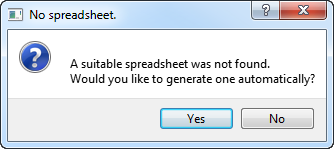
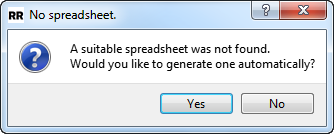
`noself` usage has been removed. `self` is now passed to all modules that raise notifications, so noself isn't needed. I've still kept it as an option since it might be useful in the future.

diff --git a/MouseFunctions.py b/MouseFunctions.py
@@ -26,7 +26,7 @@ def find(stdevs, minstvar):
             continue
         yield i, j
 
-def xOutput(toPrintList, workBook, sheetName):
+def xOutput(self, toPrintList, workBook, sheetName):
     '''Export data to spreadsheet for easy review and analysis.'''
     if workBook == 0 and sheetName == 0:
         errorNotif('<br>Data was not saved to spreadsheet!</br>')
@@ -36,9 +36,9 @@ def xOutput(toPrintList, workBook, sheetName):
             dir_path = path.join(path.expanduser('~'), 'RespiRate')
             file_path = path.join(dir_path, workBook)
             if path.isfile(file_path) == False:
-                q = ('<br>A suitable spreadsheet was not found.</br>'
-                '<br>Would you like to generate one automatically?</br>')
-                new = notifiCat.askQuestion('noself', 'No spreadsheet.', q)
+                q = ('<p>A suitable spreadsheet was not found.'
+                '<br>Would you like to generate one automatically?</br></p>')
+                new = notifiCat.askQuestion(self, 'No spreadsheet.', q)
                 if new == 'yes':
                     # Test if the folder exists. It might even if the file does not.
                     if not path.exists(dir_path):
@@ -63,7 +63,7 @@ def xOutput(toPrintList, workBook, sheetName):
                     book.save(file_path)
                     created_msg = ('Spreadsheet was created as `output1.xls` in'
                             ' the RespiRate folder.')
-                    notifiCat.infoNotif('noself', 'Success!', created_msg)
+                    notifiCat.infoNotif(self, 'Success!', created_msg)
                 else:
                     return
             # The file exists (or was just created) - now write output.
@@ -89,5 +89,5 @@ def xOutput(toPrintList, workBook, sheetName):
             # If we get this far, the spreadsheet cannot be opened (most likely
             # it is already opened in Excel or another program). Check it, close
             # it, and rerun it. Working now?
-            notifiCat.errorNotif('noself','Data cannot be exported!\n'
+            notifiCat.errorNotif(self,'Data cannot be exported!\n'
                     '<br>Please check if the spreadsheet is already opened.</br>')

diff --git a/RespiRate.py b/RespiRate.py
@@ -559,7 +559,7 @@ class Gui(QtWidgets.QMainWindow):
                         str(round(minstdevs[numba], 4))]
                     workBook = 'output1.xls'
                     sheetName = 'Sheet1'
-                    mf.xOutput(toPrintList, workBook, sheetName)
+                    mf.xOutput(self, toPrintList, workBook, sheetName)
 
         # except ZeroDivisionError or IndexError:
         except (TypeError, ZeroDivisionError, IndexError) as excpt:

diff --git a/CHANGELOG.md b/CHANGELOG.md
@@ -1,8 +1,10 @@
 ## 0.0.2 (development)
  * Show hyperlinks in dialog windows instead of plain text
- * Move two functions in notifiCat from Tkinter to Qt
+ * Move all functions in notifiCat from Tkinter to Qt
  * Fix OpenCV Error when video is at final frame
  * Don't crash on index error
+ * Better handling of exceptions
+ * add 'noself' option to notifiCat when modules have no QApplication (not currently used)
 
-## 0.0.1
+## 0.0.1 (05/12/2017)
  * Initial release
